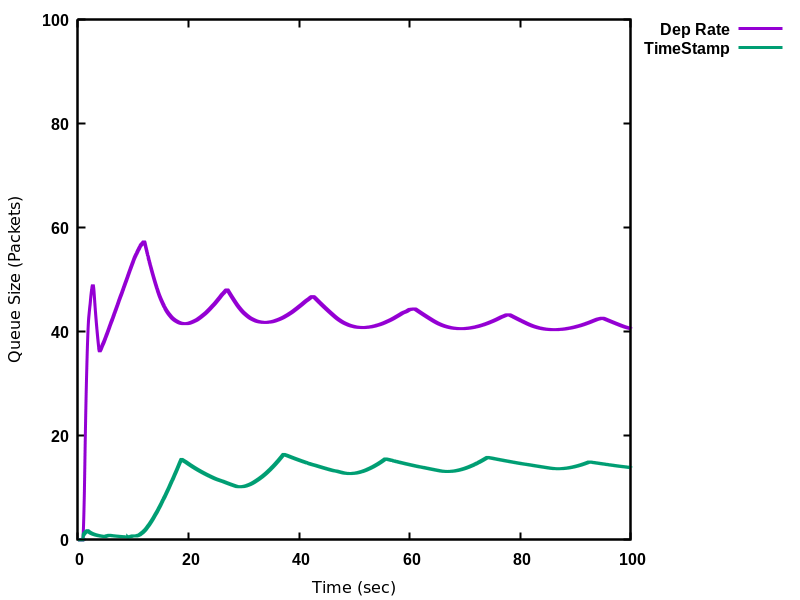
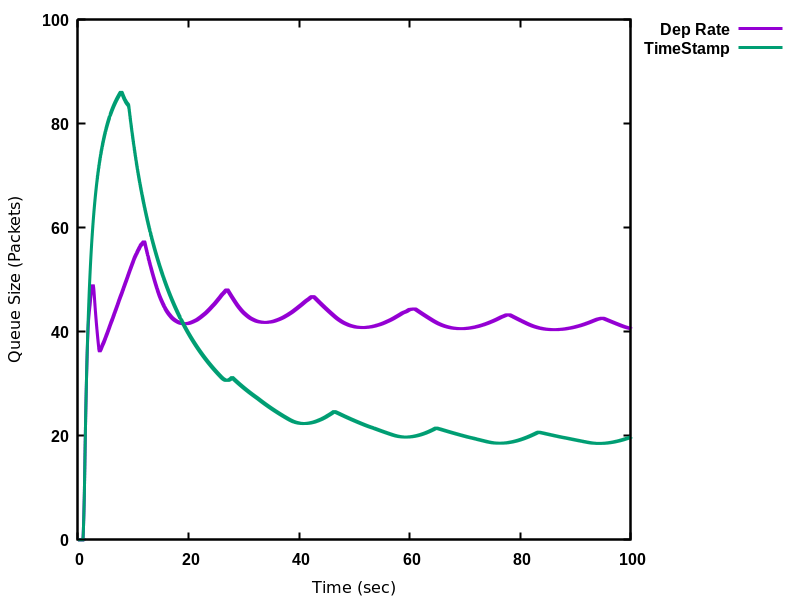
PIE Code Updated and Test Cases Updated

diff --git a/test-cases/pie-example-1.cc b/test-cases/pie-example-1.cc
@@ -1,25 +1,3 @@
-/* -*- Mode:C++; c-file-style:"gnu"; indent-tabs-mode:nil; -*- */
-/*
- * Copyright (c) 2018 NITK Surathkal
- *
- * This program is free software; you can redistribute it and/or modify
- * it under the terms of the GNU General Public License version 2 as
- * published by the Free Software Foundation;
- *
- * This program is distributed in the hope that it will be useful,
- * but WITHOUT ANY WARRANTY; without even the implied warranty of
- * MERCHANTABILITY or FITNESS FOR A PARTICULAR PURPOSE.  See the
- * GNU General Public License for more details.
- *
- * You should have received a copy of the GNU General Public License
- * along with this program; if not, write to the Free Software
- * Foundation, Inc., 59 Temple Place, Suite 330, Boston, MA  02111-1307  USA
- *
- * Authors: Vivek Jain <jain.vivek.anand@gmail.com>
- *          Viyom Mittal <viyommittal@gmail.com>
- *          Mohit P. Tahiliani <tahiliani@nitk.edu.in>
- */
-
 #include <iostream>
 #include <string>
 #include <fstream>
@@ -43,6 +21,8 @@ double stopTime = 100;
 uint32_t useTsp = 0;
 uint32_t checkTimes;
 double avgQueueDiscSize;
+std::stringstream filePlotQueueDisc;
+std::stringstream filePlotQueueDiscAvg;
 
 void
 CheckQueueSize (Ptr<QueueDisc> queue)
@@ -59,6 +39,12 @@ CheckQueueSize (Ptr<QueueDisc> queue)
   // check queue size every 1/100 of a second
   Simulator::Schedule (Seconds (0.001), &CheckQueueSize, queue);
 
+  filePlotQueueDisc << dir + "inst-queue-size"+ext+".plotme";
+  filePlotQueueDiscAvg << dir + "avg-queue-size"+ext+".plotme";
+
+  remove (filePlotQueueDisc.str ().c_str ());
+  remove (filePlotQueueDiscAvg.str ().c_str ());
+
   std::ofstream fPlotQueue1 (std::stringstream (dir + "inst-queue-size"+ext+".plotme").str ().c_str (), std::ios::out | std::ios::app);
   fPlotQueue1 << Simulator::Now ().GetSeconds () << " " << qSize << std::endl;
   fPlotQueue1.close ();
@@ -66,54 +52,6 @@ CheckQueueSize (Ptr<QueueDisc> queue)
   std::ofstream fPlotQueue2 (std::stringstream (dir + "avg-queue-size"+ext+".plotme").str ().c_str (), std::ios::out | std::ios::app);
   fPlotQueue2 << Simulator::Now ().GetSeconds () << " " << avgQueueDiscSize/checkTimes << std::endl;
   fPlotQueue2.close ();
-}
-
-static void
-CwndChangeA (uint32_t oldCwnd, uint32_t newCwnd)
-{
-  std::ofstream fPlotQueue (dir + "cwndTraces/A.plotme", std::ios::out | std::ios::app);
-  fPlotQueue << Simulator::Now ().GetSeconds () << " " << newCwnd/1446.0 << std::endl;
-  fPlotQueue.close ();
-}
-
-static void
-CwndChangeB (uint32_t oldCwnd, uint32_t newCwnd)
-{
-  std::ofstream fPlotQueue (dir + "cwndTraces/B.plotme", std::ios::out | std::ios::app);
-  fPlotQueue << Simulator::Now ().GetSeconds () << " " << newCwnd/1446.0 << std::endl;
-  fPlotQueue.close ();
-}
-
-static void
-CwndChangeC (uint32_t oldCwnd, uint32_t newCwnd)
-{
-  std::ofstream fPlotQueue (dir + "cwndTraces/C.plotme", std::ios::out | std::ios::app);
-  fPlotQueue << Simulator::Now ().GetSeconds () << " " << newCwnd/1446.0 << std::endl;
-  fPlotQueue.close ();
-}
-
-static void
-CwndChangeD (uint32_t oldCwnd, uint32_t newCwnd)
-{
-  std::ofstream fPlotQueue (dir + "cwndTraces/D.plotme", std::ios::out | std::ios::app);
-  fPlotQueue << Simulator::Now ().GetSeconds () << " " << newCwnd/1446.0 << std::endl;
-  fPlotQueue.close ();
-}
-
-static void
-CwndChangeE (uint32_t oldCwnd, uint32_t newCwnd)
-{
-  std::ofstream fPlotQueue (dir + "cwndTraces/E.plotme", std::ios::out | std::ios::app);
-  fPlotQueue << Simulator::Now ().GetSeconds () << " " << newCwnd/1446.0 << std::endl;
-  fPlotQueue.close ();
-}
-
-
-void
-TraceCwnd (uint32_t node, uint32_t cwndWindow,
-           Callback <void, uint32_t, uint32_t> CwndTrace)
-{
-  Config::ConnectWithoutContext ("/NodeList/" + std::to_string (node) + "/$ns3::TcpL4Protocol/SocketList/" + std::to_string (cwndWindow) + "/CongestionWindow", CwndTrace);
 }
 
 void InstallPacketSink (Ptr<Node> node, uint16_t port)
@@ -125,9 +63,7 @@ void InstallPacketSink (Ptr<Node> node, uint16_t port)
   sinkApps.Stop (Seconds (stopTime));
 }
 
-void InstallBulkSend (Ptr<Node> node, Ipv4Address address, uint16_t port, 
-                      uint32_t nodeId, uint32_t cwndWindow,
-                      Callback <void, uint32_t, uint32_t> CwndTrace)
+void InstallBulkSend (Ptr<Node> node, Ipv4Address address, uint16_t port)
 {
   BulkSendHelper source ("ns3::TcpSocketFactory", 
                          InetSocketAddress (address, port));
@@ -136,7 +72,6 @@ void InstallBulkSend (Ptr<Node> node, Ipv4Address address, uint16_t port,
   ApplicationContainer sourceApps = source.Install (node);
   Time timeToStart = Seconds (uv->GetValue (0, 1));
   sourceApps.Start (timeToStart);
-  Simulator::Schedule (timeToStart + Seconds (0.001), &TraceCwnd, nodeId, cwndWindow, CwndTrace);
   sourceApps.Stop (Seconds (stopTime));
 }
 
@@ -262,16 +197,18 @@ int main (int argc, char *argv[])
   InstallPacketSink (rightNodes.Get (3), port);      // D Sink 0 Applications
   InstallPacketSink (rightNodes.Get (4), port);      // E Sink 0 Applications
 
-  InstallBulkSend (leftNodes.Get (0), routerToRightIPAddress [0].GetAddress (1), port, 2, 0, MakeCallback (&CwndChangeA));
-  InstallBulkSend (leftNodes.Get (1), routerToRightIPAddress [1].GetAddress (1), port, 3, 0, MakeCallback (&CwndChangeB));
-  InstallBulkSend (leftNodes.Get (2), routerToRightIPAddress [2].GetAddress (1), port, 4, 0, MakeCallback (&CwndChangeC));
-  InstallBulkSend (leftNodes.Get (3), routerToRightIPAddress [3].GetAddress (1), port, 5, 0, MakeCallback (&CwndChangeD));
-  InstallBulkSend (leftNodes.Get (4), routerToRightIPAddress [4].GetAddress (1), port, 6, 0, MakeCallback (&CwndChangeE));
+  InstallBulkSend (leftNodes.Get (0), routerToRightIPAddress [0].GetAddress (1), port);
+  InstallBulkSend (leftNodes.Get (1), routerToRightIPAddress [1].GetAddress (1), port);
+  InstallBulkSend (leftNodes.Get (2), routerToRightIPAddress [2].GetAddress (1), port);
+  InstallBulkSend (leftNodes.Get (3), routerToRightIPAddress [3].GetAddress (1), port);
+  InstallBulkSend (leftNodes.Get (4), routerToRightIPAddress [4].GetAddress (1), port);
 
   Ipv4GlobalRoutingHelper::PopulateRoutingTables ();
 
   Simulator::Stop (Seconds (stopTime));
   Simulator::Run ();
+
+  std::cout << qd.Get (0)->GetStats();
 
   Simulator::Destroy ();
   return 0;

diff --git a/src/traffic-control/model/pie-queue-disc.cc b/src/traffic-control/model/pie-queue-disc.cc
@@ -258,8 +258,10 @@ void PieQueueDisc::CalculateP ()
       m_qDelay = qDelay;
   }
   else
-    if(!GetInternalQueue (0)->GetNBytes ())
-      m_qDelay = Seconds(0);
+  {
+    qDelay = m_qDelay;
+  }
+
   
 
   if (m_burstAllowance.GetSeconds () > 0)
@@ -350,7 +352,7 @@ void PieQueueDisc::CalculateP ()
       m_burstReset = 0;
     }
 
-  m_qDelayOld = m_qDelay;
+  m_qDelayOld = qDelay;
   m_rtrsEvent = Simulator::Schedule (m_tUpdate, &PieQueueDisc::CalculateP, this);
 }
 
@@ -383,8 +385,7 @@ PieQueueDisc::DoDequeue ()
     {
       m_qDelay = Time(Seconds(now) - Seconds(item->GetTimeStamp ()));
     }
-
-  else if (m_inMeasurement)
+    else if (m_inMeasurement)
     {
 
           m_dqCount += pktSize;
